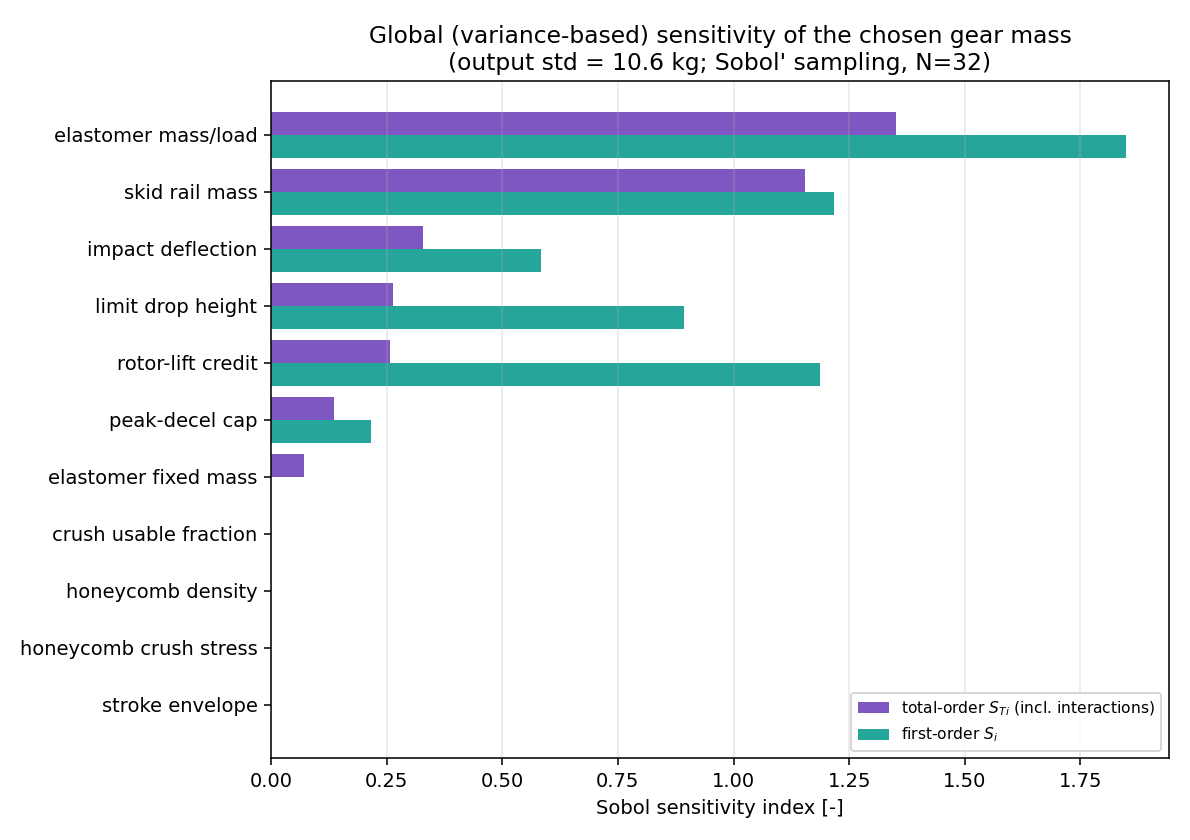
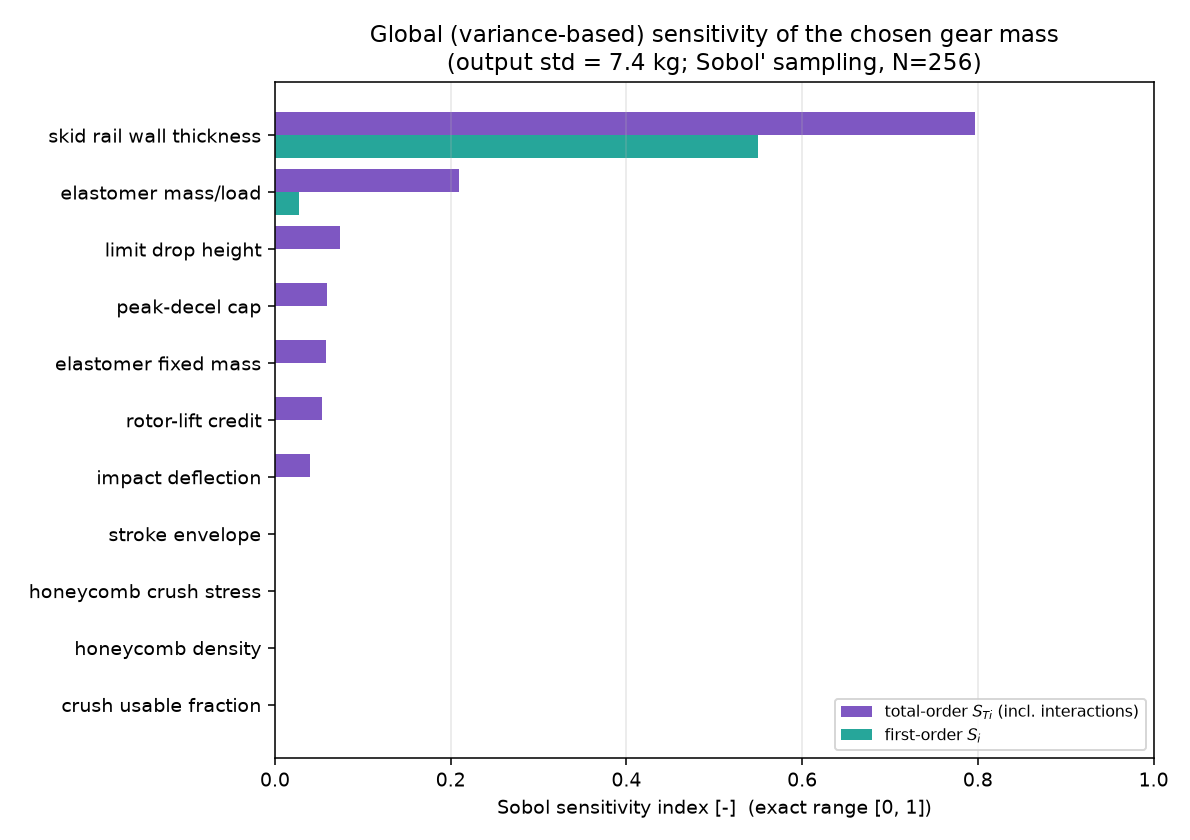
updated sensitivity

diff --git a/class_II_sizing/landing_gear_sensitivity.py b/class_II_sizing/landing_gear_sensitivity.py
@@ -61,7 +61,7 @@ OUT_DIR = Path(__file__).resolve().parent / "sensitivity_plots"
 # converged MTOW from mtow_sizing.
 M_LANDING_KG = 2136.0
 
-N_SOBOL = 32    # Sobol base sample size (total evals = N_SOBOL*(D+2)); power of 2 for balance
+N_SOBOL = 256   # Sobol base sample size (total evals = N_SOBOL*(D+2)); power of 2 for balance
 N_MC    = 150   # Latin-Hypercube Monte Carlo samples
 SEED    = 12345
 
@@ -143,11 +143,33 @@ def evaluate(overrides):
         _restore(saved)
 
 
+# Bounded infeasibility fallback for variance-based SA. Anchored to the feasible
+# gear-mass scale (~1.5x the nominal selected mass) so the rare no-feasible sample
+# does not become an extreme outlier (the old 0.05*MTOW ~ 107 kg was ~2.5x a normal
+# gear and inflated the Sobol indices). Computed lazily (one SLSQP sizing of the
+# nominal point) and cached; _SEL_STATS records how often the fallback fires.
+_FALLBACK_MASS = None
+_SEL_STATS = {"n": 0, "infeasible": 0}
+
+
+def _fallback_mass():
+    global _FALLBACK_MASS
+    if _FALLBACK_MASS is None:
+        _, _, m_nom = evaluate(NOMINAL)
+        _FALLBACK_MASS = 1.5 * m_nom if np.isfinite(m_nom) else 0.05 * M_LANDING_KG
+    return _FALLBACK_MASS
+
+
 def selected_mass(overrides):
-    """Mass [kg] of the CHOSEN design for variance-based SA. A finite fallback keeps the
-    output defined on the rare sample where no architecture is feasible."""
+    """Mass [kg] of the CHOSEN design for variance-based SA. A bounded finite fallback
+    keeps the output defined on the rare sample where no architecture is feasible,
+    without injecting an extreme outlier (see _fallback_mass)."""
     _, _, sel_mass = evaluate(overrides)
-    return sel_mass if np.isfinite(sel_mass) else 0.05 * M_LANDING_KG
+    _SEL_STATS["n"] += 1
+    if np.isfinite(sel_mass):
+        return sel_mass
+    _SEL_STATS["infeasible"] += 1
+    return _fallback_mass()
 
 
 def _overrides_from_row(row):
@@ -192,6 +214,7 @@ def plot_tornado(base, rows, path):
 # Method 2 - Sobol variance-based global sensitivity (Saltelli / Jansen)
 # ---------------------------------------------------------------------------
 def sobol():
+    _SEL_STATS["n"] = 0; _SEL_STATS["infeasible"] = 0   # count fallbacks over this run only
     sampler = qmc.Sobol(d=2 * D, scramble=True, seed=SEED)
     base = sampler.random(N_SOBOL)              # (N, 2D) in [0,1]
     A01, B01 = base[:, :D], base[:, D:]
@@ -209,22 +232,53 @@ def sobol():
         fABi = evalmat(ABi)
         S[i]  = np.mean(fB * (fABi - fA)) / var           # Saltelli 2010 first-order
         ST[i] = 0.5 * np.mean((fA - fABi) ** 2) / var      # Jansen total-order
+
+    # Exact Sobol indices lie in [0, 1]; an estimate above 1 is a non-convergence
+    # artifact (too few samples for a discontinuous output). Flag it so the run is
+    # not read as converged.
+    worst = max(float(np.abs(S).max()), float(np.abs(ST).max()))
+    if worst > 1.0 + 1e-3:
+        warnings.warn(
+            f"Sobol indices out of range (max |index| = {worst:.2f} > 1): the "
+            f"N_SOBOL={N_SOBOL} estimate has not converged. Increase N_SOBOL "
+            f"(keep a power of 2).",
+            stacklevel=2,
+        )
     return S, ST, var
 
 
 def plot_sobol(S, ST, var, path):
     order = np.argsort(ST)
     labels = [PLABEL[PNAMES[i]] for i in order]
-    Si = np.clip(S[order], 0, None)
-    STi = np.clip(ST[order], 0, None)
+    # Exact indices lie in [0, 1]: clip negatives to 0 and cap the DISPLAY at 1. Any
+    # raw estimate > 1 is a non-convergence artifact, drawn capped and flagged below.
+    S_raw  = np.clip(S[order], 0, None)
+    ST_raw = np.clip(ST[order], 0, None)
+    Si  = np.minimum(S_raw, 1.0)
+    STi = np.minimum(ST_raw, 1.0)
     y = np.arange(D)
     fig, ax = plt.subplots(figsize=(8.5, 6))
-    ax.barh(y + 0.2, STi, height=0.4, color="#7e57c2", label="total-order $S_{Ti}$ (incl. interactions)")
-    ax.barh(y - 0.2, Si,  height=0.4, color="#26a69a", label="first-order $S_i$")
+    bars_t = ax.barh(y + 0.2, STi, height=0.4, color="#7e57c2",
+                     label="total-order $S_{Ti}$ (incl. interactions)")
+    bars_1 = ax.barh(y - 0.2, Si, height=0.4, color="#26a69a", label="first-order $S_i$")
+    # Flag any bar whose raw estimate exceeded 1 (clipped for display = not converged).
+    flagged = False
+    for raw, bars in ((ST_raw, bars_t), (S_raw, bars_1)):
+        for k, patch in enumerate(bars):
+            if raw[k] > 1.0 + 1e-3:
+                flagged = True
+                patch.set_hatch("//"); patch.set_edgecolor("crimson")
+                ax.text(0.99, patch.get_y() + patch.get_height() / 2.0,
+                        f">1 (raw {raw[k]:.2f})", ha="right", va="center",
+                        fontsize=7, color="crimson")
     ax.set_yticks(y); ax.set_yticklabels(labels)
-    ax.set_xlabel("Sobol sensitivity index [-]")
-    ax.set_title("Global (variance-based) sensitivity of the chosen gear mass\n"
-                 f"(output std = {np.sqrt(var):.1f} kg; Sobol' sampling, N={N_SOBOL})")
+    ax.set_xlim(0, 1.0)
+    ax.set_xlabel("Sobol sensitivity index [-]  (exact range [0, 1])")
+    title = ("Global (variance-based) sensitivity of the chosen gear mass\n"
+             f"(output std = {np.sqrt(var):.1f} kg; Sobol' sampling, N={N_SOBOL})")
+    if flagged:
+        title += "\nhatched: raw estimate > 1 (not converged) -- raise N_SOBOL"
+    ax.set_title(title)
     ax.legend(loc="lower right", fontsize=8)
     ax.grid(axis="x", alpha=0.3)
     fig.tight_layout(); fig.savefig(path, dpi=140); plt.close(fig)
@@ -337,6 +391,10 @@ def main():
     print(f"      output std = {np.sqrt(var):.1f} kg.  Most influential (total-order):")
     for i in idx[:5]:
         print(f"        {PLABEL[PNAMES[i]]:<24s} S_T={ST[i]:.2f}  S_1={S[i]:.2f}")
+    if _SEL_STATS["n"]:
+        infeas_pct = 100.0 * _SEL_STATS["infeasible"] / _SEL_STATS["n"]
+        print(f"      no-feasible-architecture samples: {_SEL_STATS['infeasible']}/"
+              f"{_SEL_STATS['n']} ({infeas_pct:.1f}%) -> fallback {_fallback_mass():.1f} kg")
 
     # 3) Monte Carlo selection robustness
     print("\n[3/3] Monte Carlo selection robustness (LHS) ...")

diff --git a/parameters.py b/parameters.py
@@ -809,7 +809,7 @@ Z_WING_R     = WingGeometry.z_w_aw       # [m]  high rear wing (= z_w_fw + gap)
 # Front-wing vertical placement range from the fuselage-centreline datum (z up,
 # negative = below the centreline). Geometric limit from the fuselage layout; used
 # as the optimiser's z_w_fw design-variable bounds. (Comfortably above the skid
-# datum Z_GEAR ~ -1.30 m.)
+# datum Z_GEAR ~ -2.30 m.)
 Z_W_FW_MIN   = -0.9                       # [m]  lowest front-wing mount
 Z_W_FW_MAX   = -0.6                       # [m]  highest front-wing mount
 WINGLET_MASS_FRAC = 0.10                 # [-]  wing-mass fraction carved out for the two
@@ -962,8 +962,9 @@ W_PAYLOAD_BOX = 1.4    # [m]  cabin width                                       
 H_PAYLOAD_BOX = 1.2    # [m]  seated height                                             PLACEHOLDER
 
 # -- Landing gear (skid rails) --
+GROUND_CLEARANCE = 1.30                     # [m]  static clearance: skid contact to fuselage belly (single source of truth)
 X_GEAR      = 0.5 * L_FUS                  # [m]  rail mid-length under the cabin
-Z_GEAR      = -(FUSE_WIDTH / 2 + 0.30)     # [m]  belly radius + 0.30 m static clearance
+Z_GEAR      = -(FUSE_WIDTH / 2 + GROUND_CLEARANCE)  # [m]  belly radius + static clearance
 # Y_GEAR_RAIL (half-track) is derived from L_ARM further down, after the landing-gear
 # trade-study constants that define it.
 

diff --git a/class_II_sizing/mass_components.py b/class_II_sizing/mass_components.py
@@ -1337,7 +1337,7 @@ def geom_for_sketch(details):
         track_m=details["track_m"],
         L_eff=p.get("L", L_ARM),
         skid_len=L_SKID_RAIL,
-        clearance=0.30,                              # [m] static belly-to-ground clearance
+        clearance=GROUND_CLEARANCE,                  # [m] static belly-to-ground clearance (from parameter sheet)
         fuse_width=FUSE_WIDTH,
     )
 
@@ -1410,7 +1410,7 @@ def hub_mass(use_fusion=False, m_hub_fusion=None):
 
 # Miscellaneous
 def misc_mass(mtow_kg):
-    return 0.09 * mtow_kg + 32 + 85 #kg of the thermal battery management system (1) and the parachute (2)
+    return 0.10 * mtow_kg + 32 + 85 #kg of the thermal battery management system (1) and the parachute (2)
 
 
 def hinge_mass(mtow_kg):
